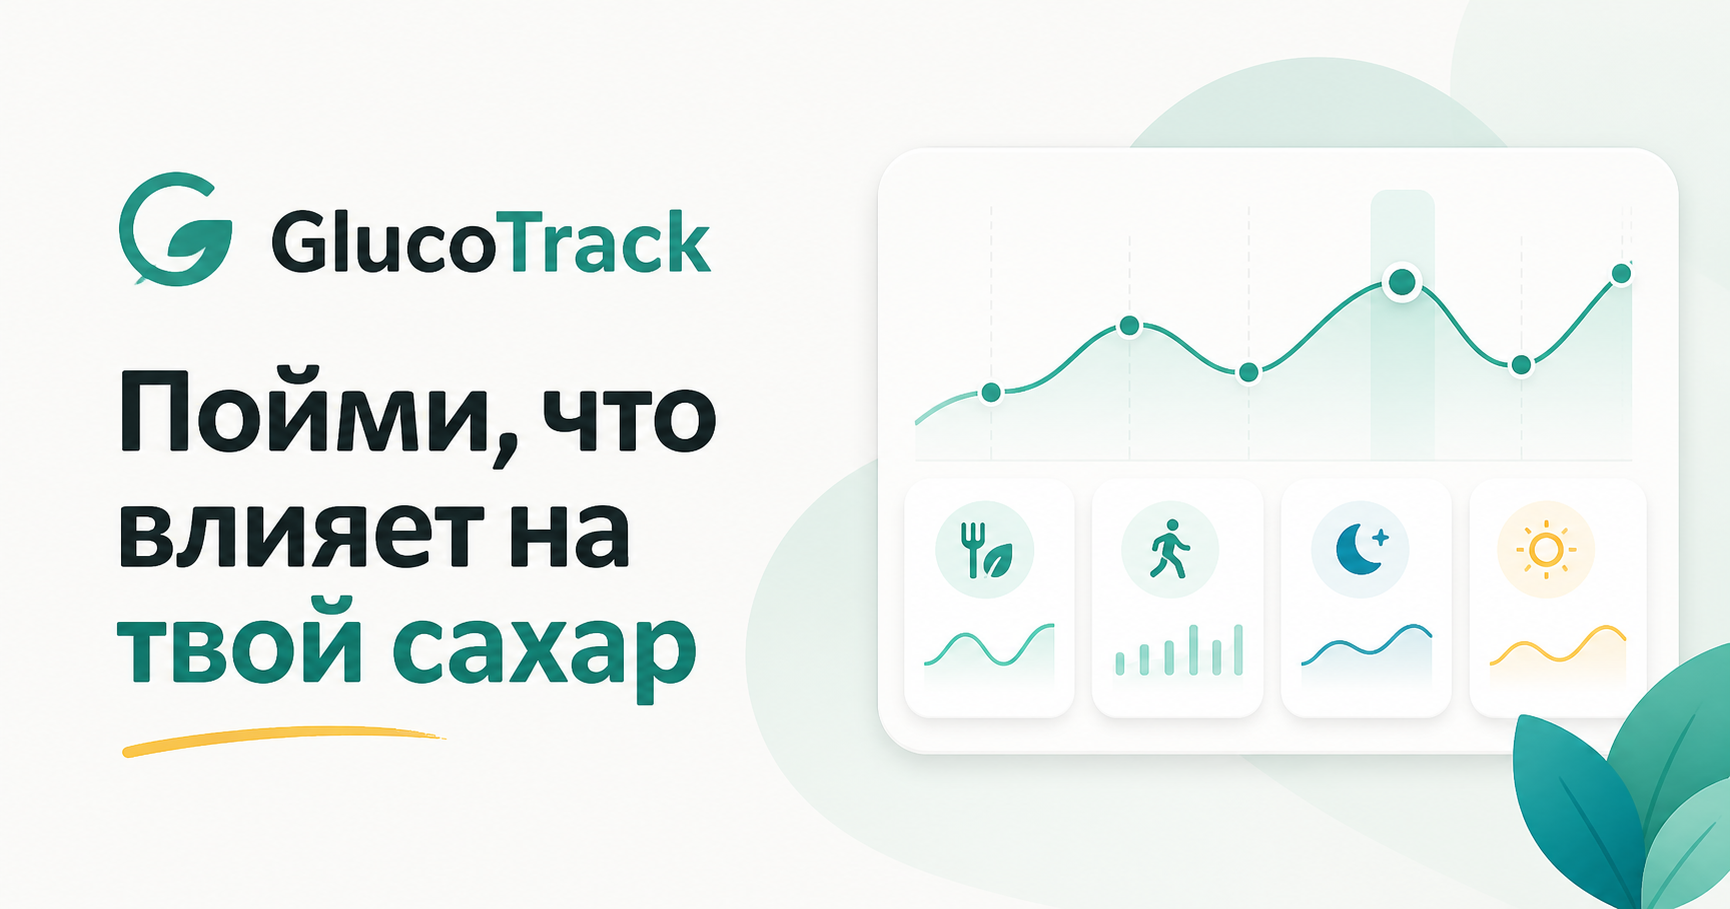
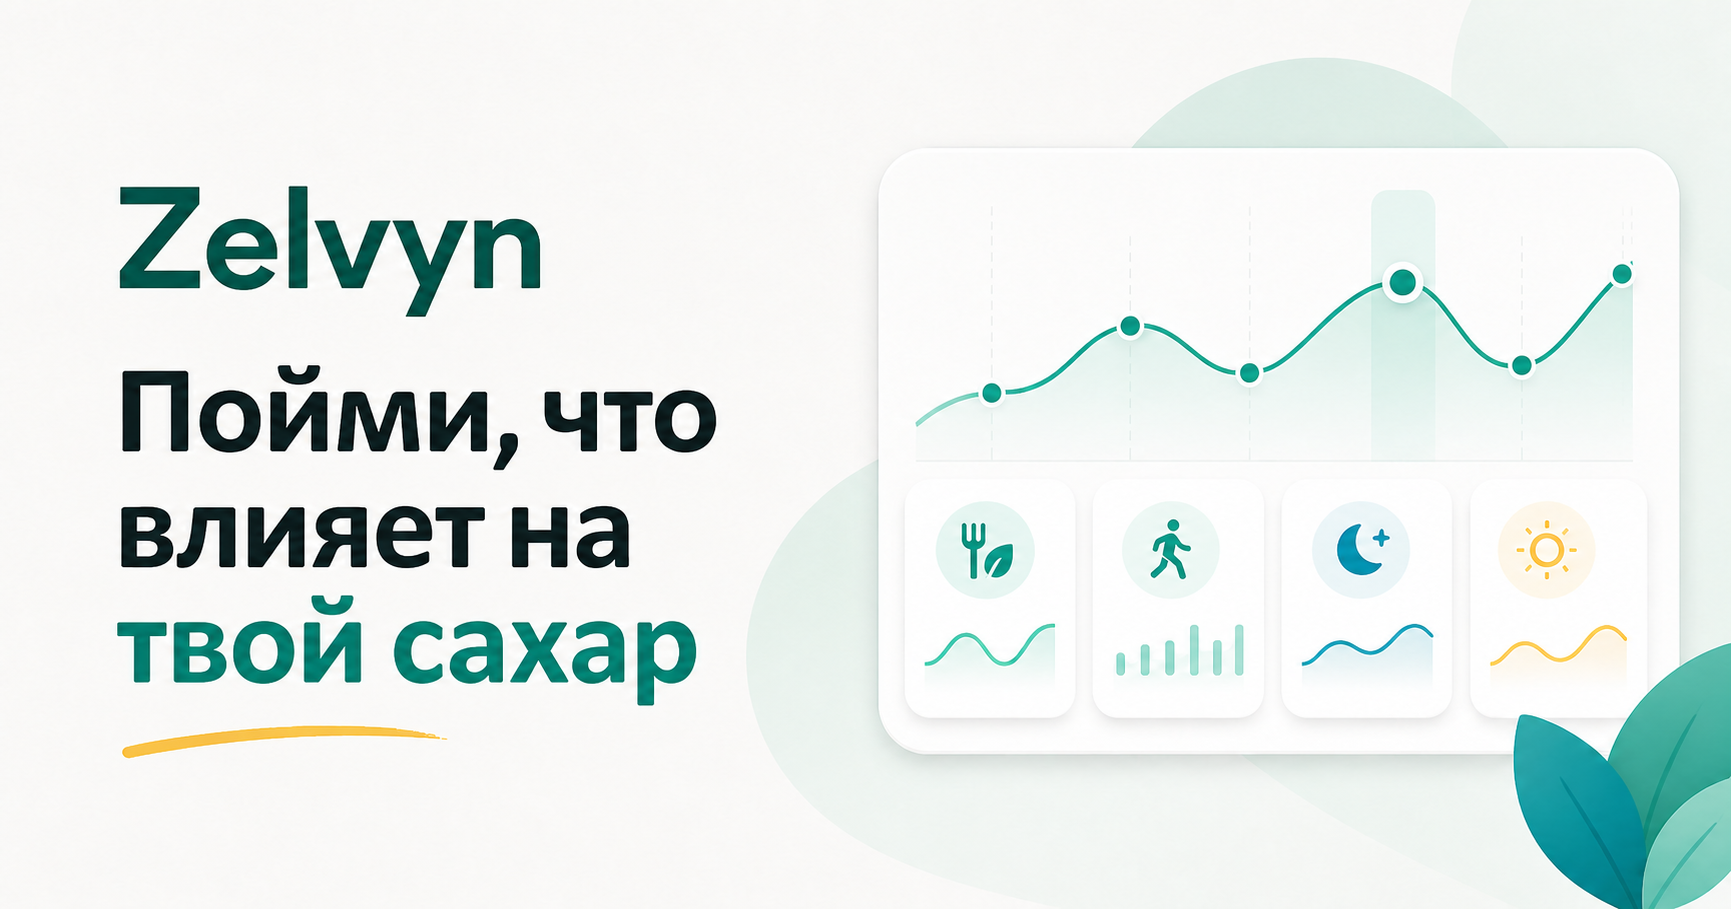
Rename product to Zelvyn

diff --git a/index.html b/index.html
@@ -10,8 +10,8 @@
     />
     <meta property="og:type" content="website" />
     <meta property="og:locale" content="ru_RU" />
-    <meta property="og:site_name" content="GlucoTrack" />
-    <meta property="og:title" content="GlucoTrack — Пойми, что влияет на твой сахар" />
+    <meta property="og:site_name" content="Zelvyn" />
+    <meta property="og:title" content="Zelvyn — Пойми, что влияет на твой сахар" />
     <meta
       property="og:description"
       content="Отслеживай глюкозу, питание, сон и активность. Находи персональные закономерности в своих данных."
@@ -19,16 +19,16 @@
     <meta property="og:image" content="/og.png" />
     <meta property="og:image:width" content="1728" />
     <meta property="og:image:height" content="910" />
-    <meta property="og:image:alt" content="GlucoTrack — Пойми, что влияет на твой сахар" />
+    <meta property="og:image:alt" content="Zelvyn — Пойми, что влияет на твой сахар" />
     <meta name="twitter:card" content="summary_large_image" />
-    <meta name="twitter:title" content="GlucoTrack — Пойми, что влияет на твой сахар" />
+    <meta name="twitter:title" content="Zelvyn — Пойми, что влияет на твой сахар" />
     <meta
       name="twitter:description"
       content="Спокойный дневник показателей и персональных наблюдений."
     />
     <meta name="twitter:image" content="/og.png" />
     <link rel="icon" type="image/svg+xml" href="/favicon.svg" />
-    <title>GlucoTrack — Пойми, что влияет на твой сахар</title>
+    <title>Zelvyn — Пойми, что влияет на твой сахар</title>
   </head>
   <body>
     <div id="root"></div>

diff --git a/src/components/Footer/Footer.tsx b/src/components/Footer/Footer.tsx
@@ -34,11 +34,11 @@ export function Footer() {
         <div className="container">
           <div className="site-footer__top">
             <div>
-              <a className="brand brand--footer" href="#top" aria-label="GlucoTrack — на главную">
+              <a className="brand brand--footer" href="#top" aria-label="Zelvyn — на главную">
                 <span className="brand__mark" aria-hidden="true">
                   <span /><span /><span />
                 </span>
-                <span>GlucoTrack</span>
+                <span>Zelvyn</span>
               </a>
               <p>Пойми свой сахар.</p>
             </div>
@@ -46,7 +46,7 @@ export function Footer() {
               <a href="#privacy">Privacy</a>
               <a href="#terms">Terms</a>
               <a href="#medical-disclaimer">Medical Disclaimer</a>
-              <a href="mailto:hello@glucotrack.app">Contact</a>
+              <a href="mailto:hello@zelvyn.app">Contact</a>
             </nav>
           </div>
 
@@ -62,7 +62,7 @@ export function Footer() {
           </div>
 
           <div className="site-footer__bottom">
-            <p>© 2026 GlucoTrack. Продукт находится на стадии раннего тестирования.</p>
+            <p>© 2026 Zelvyn. Продукт находится на стадии раннего тестирования.</p>
             <span>Создано с вниманием к человеку и его данным</span>
           </div>
         </div>

diff --git a/src/components/FAQ/FAQ.tsx b/src/components/FAQ/FAQ.tsx
@@ -4,13 +4,13 @@ import { trackEvent } from "../../utils/analytics";
 
 const questions = [
   {
-    question: "Для кого GlucoTrack?",
+    question: "Для кого Zelvyn?",
     answer:
       "Для людей с диабетом 2 типа, которые хотят отслеживать глюкозу и связанные с ней факторы.",
   },
   {
     question: "Нужно ли менять лечение?",
-    answer: "Нет. GlucoTrack не назначает и не изменяет лечение.",
+    answer: "Нет. Zelvyn не назначает и не изменяет лечение.",
   },
   {
     question: "Бесплатно ли приложение?",
@@ -48,9 +48,9 @@ export function FAQ() {
           <h2 id="faq-title">Частые вопросы</h2>
           <p>
             Не нашёл ответ? Напиши нам — мы собираем вопросы, чтобы сделать
-            GlucoTrack понятнее ещё до запуска.
+            Zelvyn понятнее ещё до запуска.
           </p>
-          <a href="mailto:hello@glucotrack.app">hello@glucotrack.app</a>
+          <a href="mailto:hello@zelvyn.app">hello@zelvyn.app</a>
         </div>
 
         <div className="accordion">

diff --git a/src/components/EarlyAccess/EarlyAccess.tsx b/src/components/EarlyAccess/EarlyAccess.tsx
@@ -66,7 +66,7 @@ export function EarlyAccess() {
             </div>
             <span className="early-access__eyebrow">Ранний доступ · бесплатно</span>
             <h2 id="early-access-title">
-              Стань одним из первых пользователей GlucoTrack
+              Стань одним из первых пользователей Zelvyn
             </h2>
             <p>
               Мы создаём приложение для людей с диабетом 2 типа и ищем первых
@@ -78,7 +78,7 @@ export function EarlyAccess() {
                 <CheckCircle2 aria-hidden="true" />
                 <span>
                   <strong>Спасибо! Ты в списке.</strong>
-                  Мы сообщим, когда GlucoTrack будет готов к тестированию.
+                  Мы сообщим, когда Zelvyn будет готов к тестированию.
                 </span>
               </div>
             ) : (

diff --git a/src/components/Hero/Hero.tsx b/src/components/Hero/Hero.tsx
@@ -35,7 +35,7 @@ export function Hero() {
             Пойми, что влияет<br /> на твой <em>сахар</em>
           </h1>
           <p className="hero__lead">
-            Записывай глюкозу, питание, активность и сон. GlucoTrack помогает
+            Записывай глюкозу, питание, активность и сон. Zelvyn помогает
             находить персональные закономерности именно в твоих данных.
           </p>
 
@@ -65,7 +65,7 @@ export function Hero() {
           </p>
         </div>
 
-        <div className="hero-dashboard-wrap" aria-label="Демо экрана GlucoTrack">
+        <div className="hero-dashboard-wrap" aria-label="Демо экрана Zelvyn">
           <div className="hero-dashboard__glow" aria-hidden="true" />
           <div className="hero-dashboard">
             <div className="hero-dashboard__topbar">

diff --git a/src/components/Security/Security.tsx b/src/components/Security/Security.tsx
@@ -62,9 +62,9 @@ export function Security() {
             <Stethoscope aria-hidden="true" />
           </span>
           <div>
-            <h3 id="medical-note-title">Важно о назначении GlucoTrack</h3>
+            <h3 id="medical-note-title">Важно о назначении Zelvyn</h3>
             <p>
-              GlucoTrack не ставит диагнозы, не заменяет врача и не изменяет
+              Zelvyn не ставит диагнозы, не заменяет врача и не изменяет
               назначенное лечение. Информация приложения предназначена для
               отслеживания и анализа пользовательских данных.
             </p>

diff --git a/src/components/Header/Header.tsx b/src/components/Header/Header.tsx
@@ -25,13 +25,13 @@ export function Header() {
   return (
     <header className="site-header">
       <div className="container site-header__inner">
-        <a className="brand" href="#top" aria-label="GlucoTrack — на главную">
+        <a className="brand" href="#top" aria-label="Zelvyn — на главную">
           <span className="brand__mark" aria-hidden="true">
             <span />
             <span />
             <span />
           </span>
-          <span>GlucoTrack</span>
+          <span>Zelvyn</span>
         </a>
 
         <nav className="desktop-nav" aria-label="Основная навигация">

diff --git a/src/components/Problem/Problem.tsx b/src/components/Problem/Problem.tsx
@@ -61,7 +61,7 @@ export function Problem() {
             <span />
           </span>
           <p>
-            GlucoTrack помогает собрать эти данные <strong>в одну картину.</strong>
+            Zelvyn помогает собрать эти данные <strong>в одну картину.</strong>
           </p>
         </div>
       </div>

diff --git a/README.md b/README.md
@@ -1,7 +1,7 @@
-# GlucoTrack landing page
+# Zelvyn landing page
 
 Одностраничный лендинг для проверки продуктовой гипотезы health-tech сервиса
-GlucoTrack. Интерфейс показывает только демонстрационные данные и не является
+Zelvyn. Интерфейс показывает только демонстрационные данные и не является
 медицинским приложением.
 
 ## Запуск
